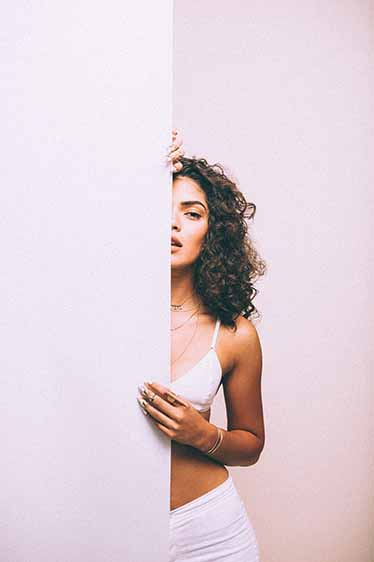
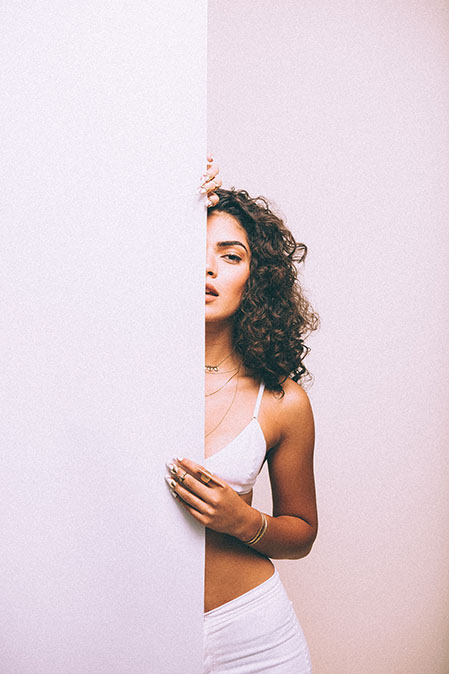
new photo sizes

diff --git a/portfolio-1-col.html b/portfolio-1-col.html
@@ -131,8 +131,8 @@
               </div>
               <div class="col-sm-6 col-md-4">
                   <div class="thumbnail">
-                      <a class="lightbox" href="../images/tunnel.jpg">
-                          <img src="../images/tunnel.jpg" alt="Tuneel">
+                      <a class="lightbox" href="img/1541.jpg">
+                          <img src="img/1541.jpg" alt="">
                       </a>
                       <div class="caption">
                           <h3>Thumbnail label</h3>

diff --git a/css/gallery-clean.css b/css/gallery-clean.css
@@ -24,7 +24,7 @@ body {
 /* Styles for the gallery */
 
 .tz-gallery {
-    padding: 40px;
+    /*padding: 40px;*/
 }
 
 .tz-gallery .thumbnail {
